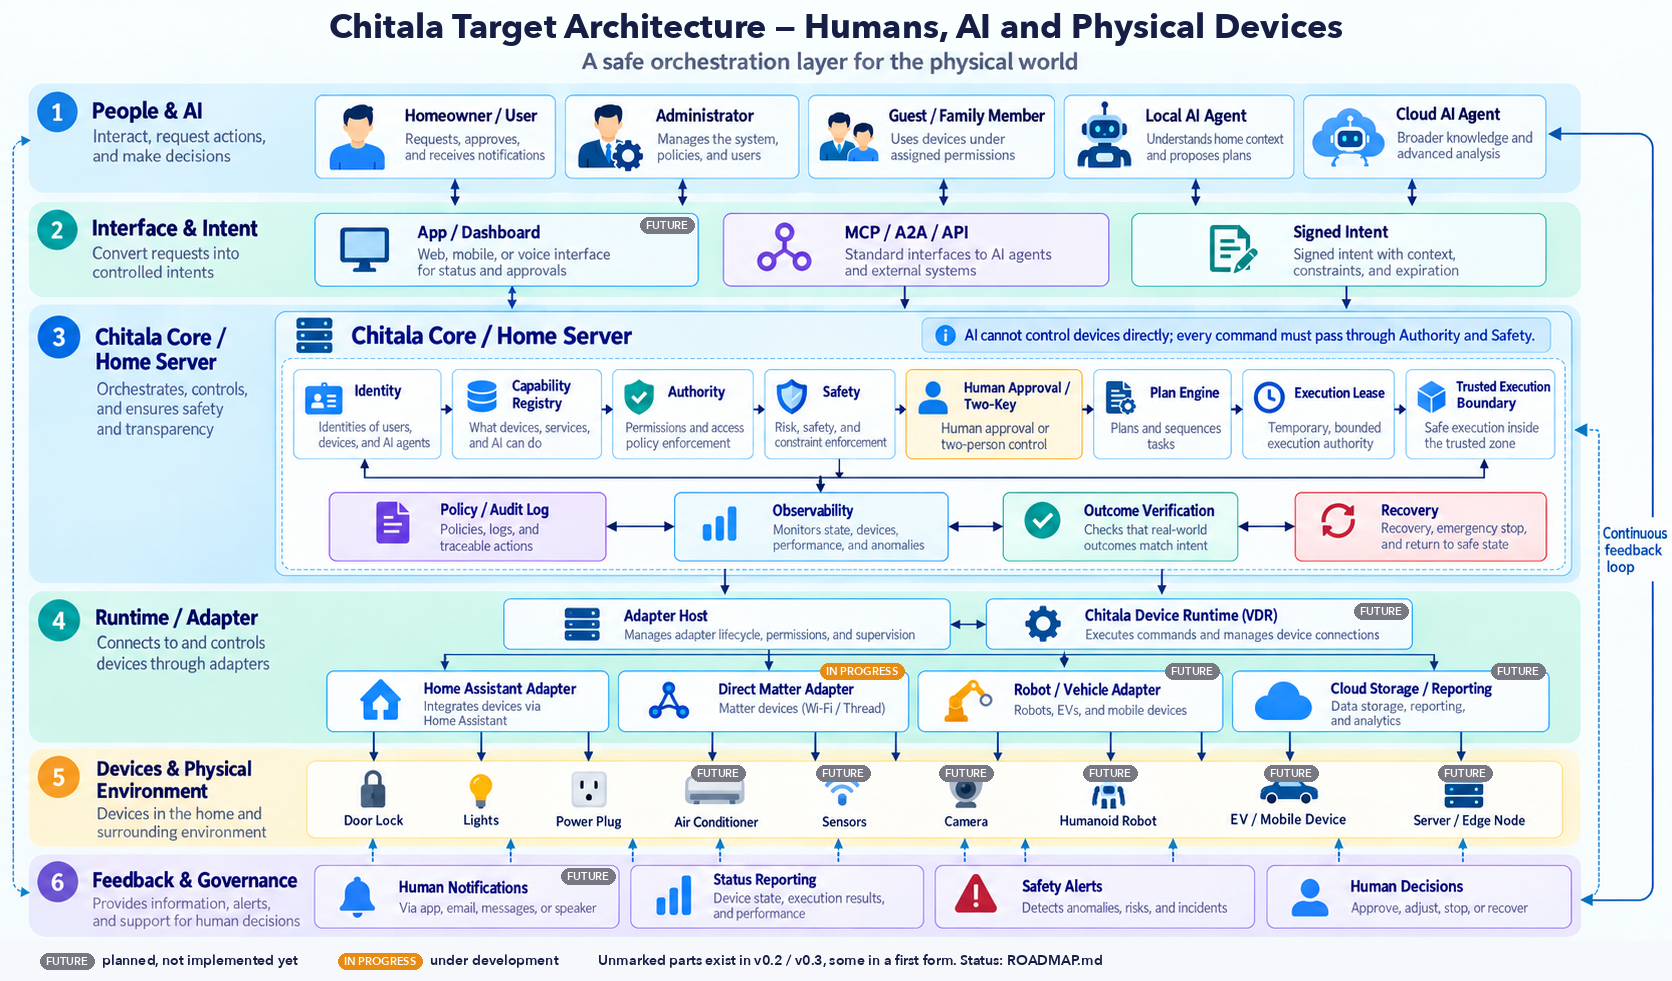
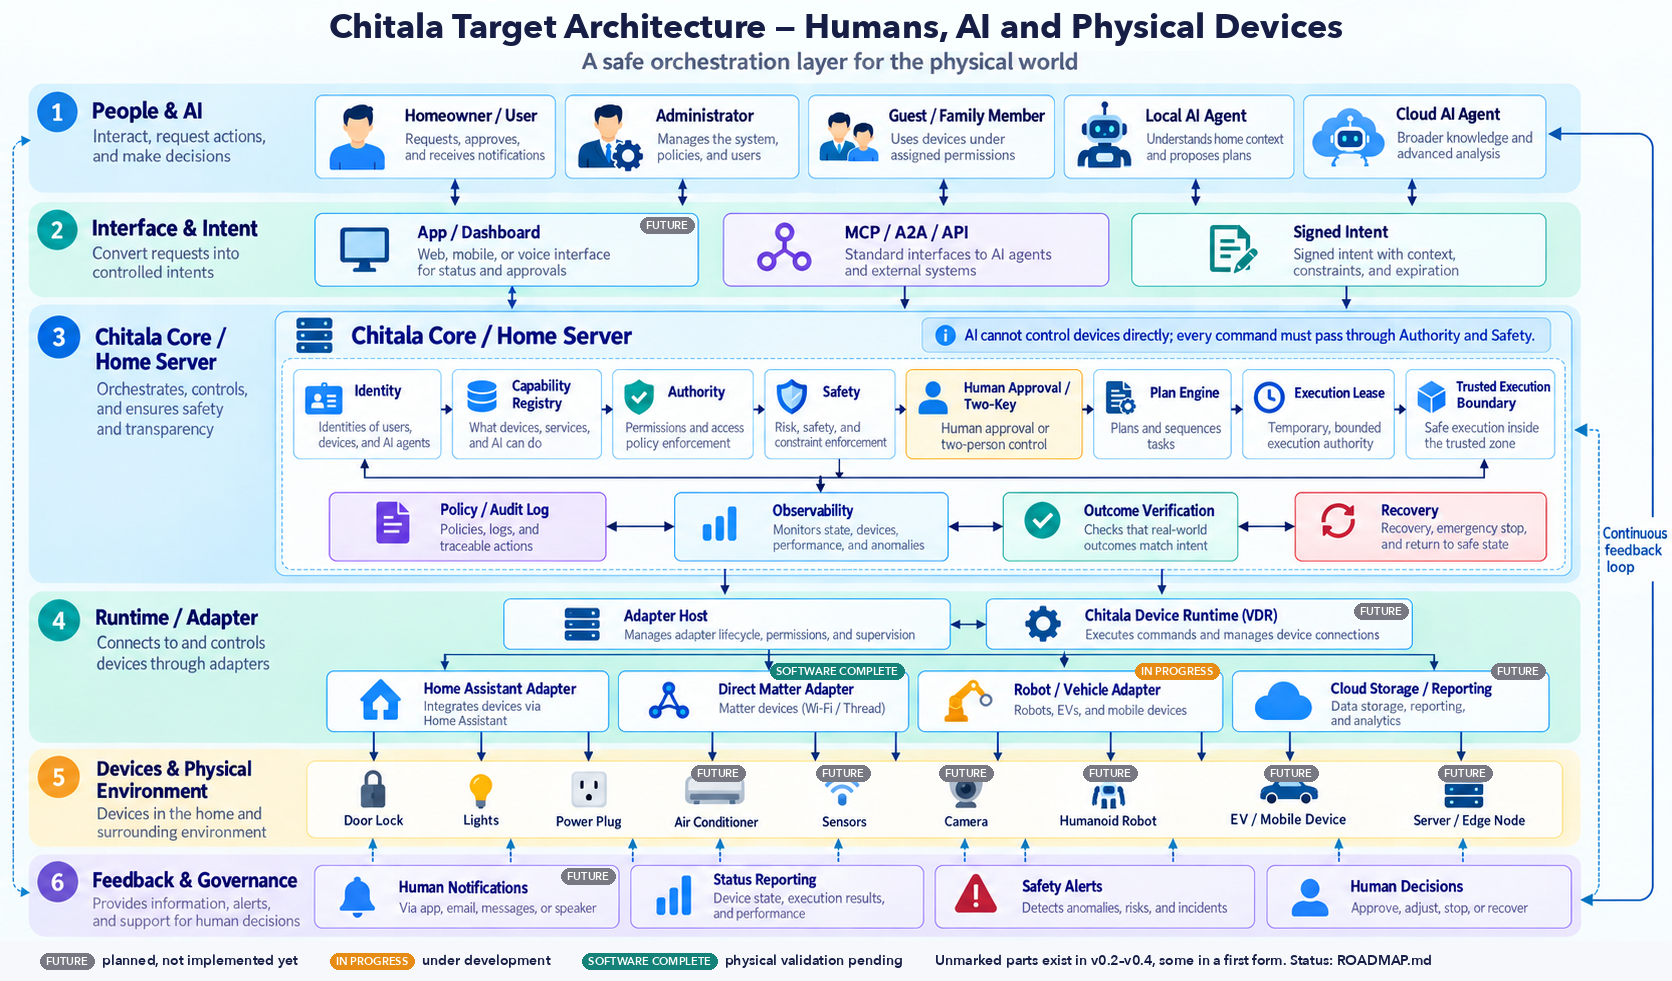
README and architecture image: status after device history (v0.4) (#54)
The architecture image gets a 'software complete' label (physical validation pending) for the direct Matter adapter, and the robot adapter is in progress; the status table, the README's summary, diagram and status table follow.

Changed region(s): [[0.1866, 0.948, 0.8397, 1.0], [0.4665, 0.6728, 0.5598, 0.7034], [0.6842, 0.6728, 0.7464, 0.7034]]

diff --git a/docs/architecture/target-architecture.md b/docs/architecture/target-architecture.md
@@ -2,7 +2,7 @@
 
 ![Chitala target architecture](../assets/chitala-architecture-overview.png)
 
-This is Chitala's **target** architecture: where the design is going, not what the code does today. Parts marked *future* in the diagram are not implemented, and the direct Matter adapter is in progress. This page gives the status of every part of the diagram. The [roadmap](../../ROADMAP.md) has the plan.
+This is Chitala's **target** architecture: where the design is going, not what the code does today. In the diagram, parts marked *future* are not implemented, parts marked *in progress* are under development, and parts marked *software complete* still need validation on physical devices. This page gives the status of every part of the diagram. The [roadmap](../../ROADMAP.md) has the plan.
 
 What does not change from one release to the next is the invariant:
 
@@ -23,13 +23,13 @@ What does not change from one release to the next is the invariant:
 | | plan engine, execution lease | implemented | [23](../../specs/23-plan-engine.md), [21](../../specs/21-execution-lease.md) |
 | | trusted execution boundary | implemented | [19](../../specs/19-execution-boundary.md) |
 | | policy, audit log | implemented | [06](../../specs/06-policy.md), [09](../../specs/09-audit.md) |
-| | observability | **first form**: the audit log, security events, the reference monitor, device twins. No performance metrics yet | [08](../../specs/08-reference-monitor.md), [10](../../specs/10-twin-and-events.md) |
+| | observability | **first form**: the audit log, security events, the reference monitor, device twins, and a local history of device state, outside the Trusted Core, that people and AIs read through the node as `device.read_history`. No performance metrics yet | [08](../../specs/08-reference-monitor.md), [10](../../specs/10-twin-and-events.md), [29](../../specs/29-telemetry-history.md) |
 | | outcome verification, recovery | implemented | [22](../../specs/22-outcome-recovery.md) |
 | 4 Runtime and adapters | adapter host | implemented: one separate process per adapter type, supervised by the node | [19](../../specs/19-execution-boundary.md) |
 | | Home Assistant adapter | implemented, checked against a real Home Assistant | [25](../../specs/25-home-assistant-adapter.md) |
 | | direct Matter adapter | **software complete, physical validation pending**: on Chitala's own fabric through a matter.js sidecar. It passes the conformance suite and drove the Matter SDK's lock through the whole chain in the lab | [26](../../specs/26-adapter-conformance.md), [27](../../specs/27-direct-matter-adapter.md) |
-| | Chitala Device Runtime | **future**: device runtime and telemetry, outside the Trusted Core (proposed after v0.3 ③A) | [roadmap](../../ROADMAP.md) |
-| | robot and vehicle adapters | **future** | — |
+| | Chitala Device Runtime | **future**: a device runtime outside the Trusted Core. Its first piece exists: the local history of device state | [29](../../specs/29-telemetry-history.md), [roadmap](../../ROADMAP.md) |
+| | robot and vehicle adapters | **in progress**: the Robot Profile v0.1, for a differential-drive ground robot, with a simulator (v0.4). Vehicles are future | [roadmap](../../ROADMAP.md) |
 | | cloud storage and reporting | **future** | — |
 | 5 Devices | door lock, light, plug | implemented in the Home profile; tested with virtual devices, a real Home Assistant and Matter SDK devices. Physical devices are step ③B | [24](../../specs/24-home-profile.md) |
 | | air conditioner, sensors, camera, humanoid robot, EV, edge node | **future**: not in the Home profile v0.1 (the mock has a virtual thermostat) | — |
@@ -39,4 +39,4 @@ What does not change from one release to the next is the invariant:
 
 ## About the diagram
 
-The diagram started as an illustration. Its title, and the *future* and *in progress* labels, were added so that it does not claim what the code does not do. When a part changes status, update its label and this table together.
+The diagram started as an illustration. Its title, and the *future*, *in progress* and *software complete* labels, were added so that it does not claim what the code does not do. When a part changes status, update its label and this table together.

diff --git a/README.md b/README.md
@@ -45,15 +45,17 @@ flowchart TB
     boundary -->|signed orders| hosts["Adapter hosts<br/>(separate processes)"]
     hosts --> virtual["Virtual devices"]
     hosts --> ha["Home Assistant adapter"] --> hadevices["Home Assistant:<br/>lights, plugs, locks"]
-    hosts --> matter["Direct Matter adapter<br/>(in progress)"] --> matterdevices["Matter devices<br/>on Chitala's own fabric"]
+    hosts --> matter["Direct Matter adapter<br/>(software complete)"] --> matterdevices["Matter devices<br/>on Chitala's own fabric"]
+    core -.->|what it observed| history[("Device history<br/>(outside the Trusted Core)")]
     virtual -.->|observed state| verify
     hadevices -.->|observed state| verify
     matterdevices -.->|observed state| verify
 ```
 
-- **Implemented today:** Identity → Intent → Authority → Safety → Approval → Trusted Execution Boundary → Adapters → Outcome verification → Recovery. Also plans, execution leases, the audit log and the MCP broker. Devices are virtual, or reached through a real Home Assistant.
-- **In progress:** the direct Matter adapter, and validation on physical devices (v0.3 steps ⑤, ③B and ④).
-- **Future:** robot and vehicle profiles, a richer device runtime, broader telemetry and reporting, an app or dashboard.
+- **Implemented today:** Identity → Intent → Authority → Safety → Approval → Trusted Execution Boundary → Adapters → Outcome verification → Recovery. Also plans, execution leases, the audit log and the MCP broker, and a local history of device state that people and AIs read through the node, under Authority. Devices are virtual, reached through a real Home Assistant, or reached directly over Matter on Chitala's own fabric.
+- **Software complete, physical validation pending:** the direct Matter adapter and the adversarial Home suite (v0.3 steps ⑤ and ⑥). Validation on physical devices is v0.3 steps ③B and ④.
+- **In progress:** the Robot Profile v0.1 and a simulator, for a differential-drive ground robot (v0.4).
+- **Future:** vehicle profiles, a richer device runtime, broader telemetry and reporting, an app or dashboard.
 
 ### Target architecture
 
@@ -70,7 +72,8 @@ flowchart TB
 | 0.0.3 | HTTP/MQTT/WoT adapters + a virtual home | 🟡 virtual home, Home Assistant (WebSocket + REST) |
 | **Physical Authority Slice v0.1** | MCP → Intent → Authority → Safety → Approval → Capability → simulated door | ✅ |
 | **v0.2** | Platform independence and the Trusted Execution Boundary: execution leases, outcome verification and recovery, plans ([ROADMAP](ROADMAP.md), [audit](docs/audit/v0.2-rc-audit.md)) | ✅ `v0.2.0` pre-release |
-| v0.3 | Home Reference Implementation: real AIs, real devices (Home Assistant, Matter) | 🟡 Home profile; Home Assistant adapter checked with a real AI, a real Home Assistant and Matter SDK devices; adapter conformance suite; direct Matter adapter in progress; physical devices pending |
+| v0.3 | Home Reference Implementation: real AIs, real devices (Home Assistant, Matter) | 🟡 Home profile; Home Assistant adapter checked with a real AI, a real Home Assistant and Matter SDK devices; adapter conformance suite; direct Matter adapter and adversarial suite software complete; physical devices pending |
+| v0.4 | Device history and robots | 🟡 local history, read through the node as `device.read_history` ✅; Robot Profile v0.1 and a simulator in progress |
 
 | # | Physical Authority Slice v0.1 case | Required | |
 |---|---|---|---|
